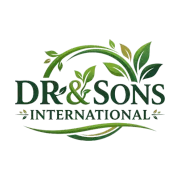
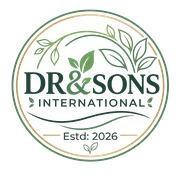
feat: adopt new circular corporate emblem seal and generate high-res social preview card (og-image) with cache-busting v3

diff --git a/index.html b/index.html
@@ -13,29 +13,29 @@
     <meta property="og:site_name" content="D R &amp; Sons International Private Limited" />
     <meta property="og:title" content="D R &amp; Sons International Private Limited" />
     <meta property="og:description" content="Commercial Food &amp; Beverage Manufacturing · Since 2026 · Fruits, Vegetables Powder and starch · Flakes · Drinking Mineral Water · Drinks &amp; Ice Creams" />
-    <meta property="og:image" content="https://drsonsinternational.com/og-image.jpg?v=2" />
-    <meta property="og:image:secure_url" content="https://drsonsinternational.com/og-image.jpg?v=2" />
+    <meta property="og:image" content="https://drsonsinternational.com/og-image.jpg?v=3" />
+    <meta property="og:image:secure_url" content="https://drsonsinternational.com/og-image.jpg?v=3" />
     <meta property="og:image:type" content="image/jpeg" />
     <meta property="og:image:width" content="1200" />
     <meta property="og:image:height" content="630" />
-    <meta property="og:image:alt" content="D R &amp; Sons International Brand Logo" />
+    <meta property="og:image:alt" content="D R &amp; Sons International Official Emblem Seal" />
 
     <!-- Fallback image tags for WhatsApp / iMessage / Google scrapers -->
-    <link rel="image_src" href="https://drsonsinternational.com/og-image.jpg?v=2" />
-    <meta itemprop="image" content="https://drsonsinternational.com/og-image.jpg?v=2" />
+    <link rel="image_src" href="https://drsonsinternational.com/og-image.jpg?v=3" />
+    <meta itemprop="image" content="https://drsonsinternational.com/og-image.jpg?v=3" />
 
     <!-- Twitter / X Card -->
     <meta name="twitter:card" content="summary_large_image" />
     <meta name="twitter:url" content="https://drsonsinternational.com/" />
     <meta name="twitter:title" content="D R &amp; Sons International Private Limited" />
     <meta name="twitter:description" content="Commercial Food &amp; Beverage Manufacturing · Since 2026 · Fruits, Vegetables Powder and starch · Flakes · Drinking Mineral Water · Drinks &amp; Ice Creams" />
-    <meta name="twitter:image" content="https://drsonsinternational.com/og-image.jpg?v=2" />
-    <meta name="twitter:image:alt" content="D R &amp; Sons International Brand Logo" />
+    <meta name="twitter:image" content="https://drsonsinternational.com/og-image.jpg?v=3" />
+    <meta name="twitter:image:alt" content="D R &amp; Sons International Official Emblem Seal" />
 
     <!-- Icons & Favicons -->
-    <link rel="icon" type="image/png" sizes="64x64" href="/favicon.png" />
-    <link rel="apple-touch-icon" sizes="180x180" href="/apple-touch-icon.png" />
-    <link rel="shortcut icon" href="/favicon.ico" />
+    <link rel="icon" type="image/png" sizes="64x64" href="/favicon.png?v=3" />
+    <link rel="apple-touch-icon" sizes="180x180" href="/apple-touch-icon.png?v=3" />
+    <link rel="shortcut icon" href="/favicon.ico?v=3" />
     
     <!-- Preconnect Fonts -->
     <link rel="preconnect" href="https://fonts.googleapis.com">

diff --git a/src/App.tsx b/src/App.tsx
@@ -1100,11 +1100,11 @@ export default function App() {
           
           {/* Logo Lockup */}
           <a href="#" className="flex items-center gap-2 sm:gap-3 group shrink-0">
-            <div className="h-9 sm:h-12 flex items-center">
+            <div className="h-9 sm:h-11 flex items-center">
               <img 
                 src="/assets/brand/drsons_logo.webp" 
                 alt="D R & SONS INTERNATIONAL" 
-                className="h-9 sm:h-12 w-auto object-contain mix-blend-multiply"
+                className="h-9 sm:h-11 w-auto aspect-square object-contain"
               />
             </div>
             <div className="border-l border-neutral-200 pl-2.5 hidden md:block">
@@ -1240,7 +1240,7 @@ export default function App() {
                     <img
                       src="/assets/brand/drsons_logo.webp"
                       alt="D R & SONS INTERNATIONAL"
-                      className="h-8 w-auto object-contain mix-blend-multiply"
+                      className="h-8 w-auto aspect-square object-contain"
                     />
                     <div>
                       <span className="text-xs font-bold tracking-tight text-[#0a2318] block leading-none">
@@ -3232,7 +3232,7 @@ export default function App() {
                 <img 
                   src="/assets/brand/drsons_logo.webp" 
                   alt="D R & SONS INTERNATIONAL" 
-                  className="h-10 w-auto object-contain mix-blend-multiply"
+                  className="h-11 w-auto aspect-square object-contain"
                 />
                 <div className="border-l border-neutral-300 pl-3">
                   <span className="text-sm font-bold tracking-tight text-[#0a2318] block leading-none">

diff --git a/src/MaintenancePage.tsx b/src/MaintenancePage.tsx
@@ -278,7 +278,7 @@ export default function MaintenancePage({ onUnlock }: MaintenancePageProps) {
           <img 
             src="/assets/brand/drsons_logo.webp" 
             alt="D R & SONS INTERNATIONAL" 
-            className="h-10 sm:h-12 w-auto object-contain mix-blend-multiply"
+            className="h-10 sm:h-12 w-auto aspect-square object-contain"
           />
           <div className="border-l border-neutral-300 pl-3 hidden xs:block">
             <span className="text-xs sm:text-sm font-bold tracking-tight text-[#0a2318] block leading-none">
